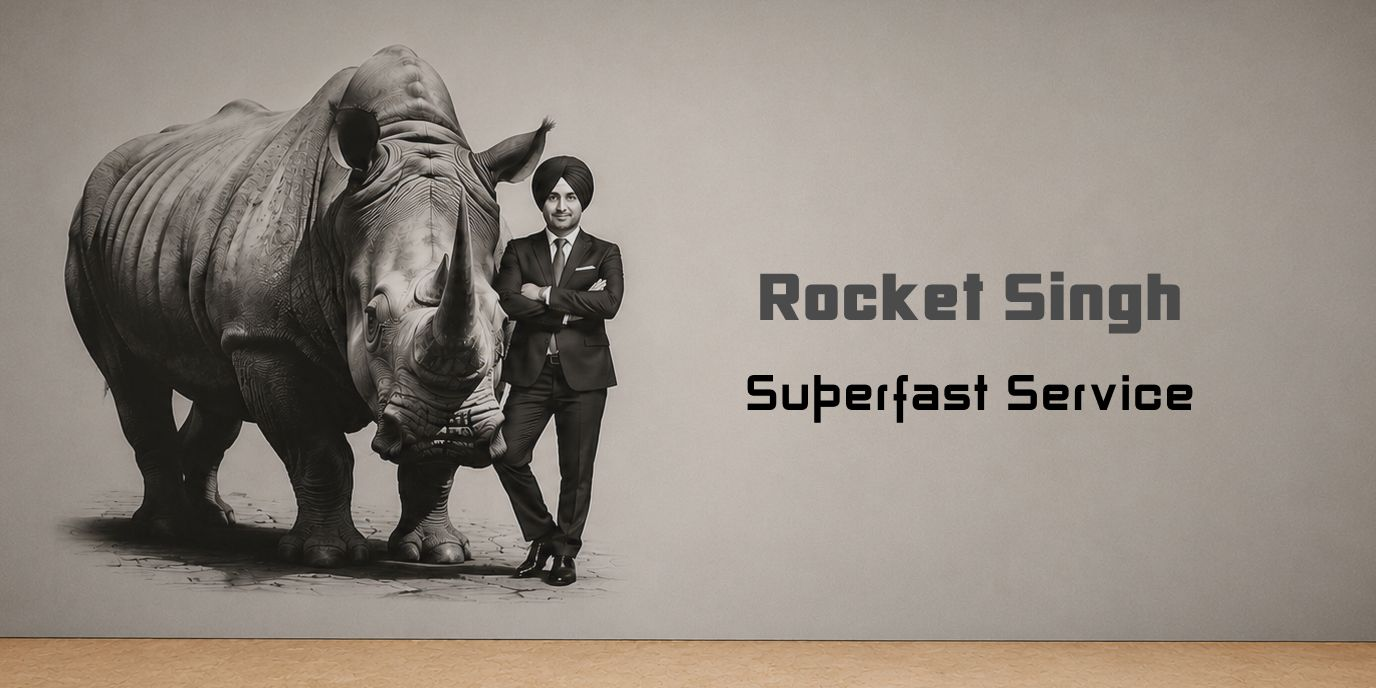
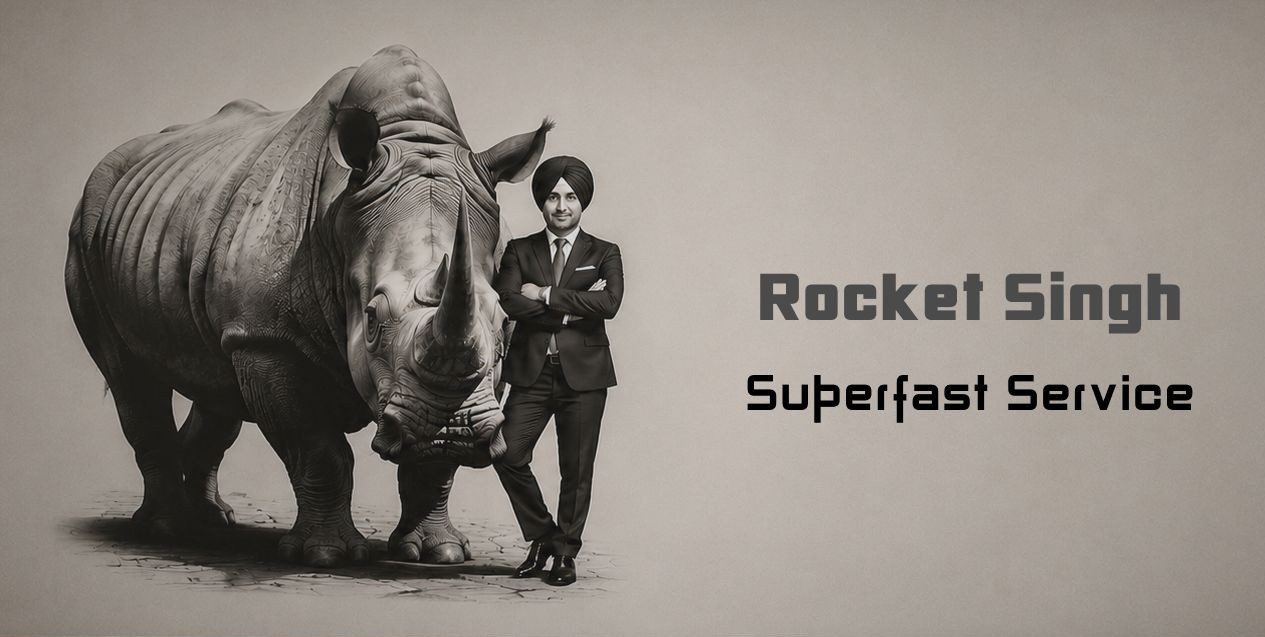
updates 2

diff --git a/components/Header1.tsx b/components/Header1.tsx
@@ -2,6 +2,7 @@ import { TouchableOpacity, StyleSheet, View, Image, Text } from 'react-native';
 import { Ionicons } from '@expo/vector-icons';
 import { useNavigation } from '@react-navigation/native';
 import { DrawerActions } from '@react-navigation/native';
+import { heightPercentageToDP as hp } from 'react-native-responsive-screen';
 
 export default function Header1() {
   const navigation = useNavigation<any>();
@@ -16,9 +17,9 @@ export default function Header1() {
           style={styles.leftIcon}
         />
         <Text style={{
-          fontSize: 18,
+          fontSize: hp('2%'),
           fontWeight: 'bold',
-          color: '#064E3B',
+          color: '#ffffff',
         }}>Rocket Singh</Text>
       </View>
 

diff --git a/app/(drawer)/(tabs)/Home.tsx b/app/(drawer)/(tabs)/Home.tsx
@@ -158,7 +158,7 @@ const styles = StyleSheet.create({
   },
   banner: {
     width: '100%',
-    height: hp('30%'),
+    height: hp('25%'),
   },
   content: {
     paddingHorizontal: wp('4%'),
